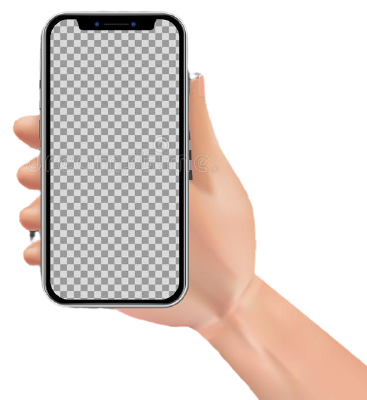
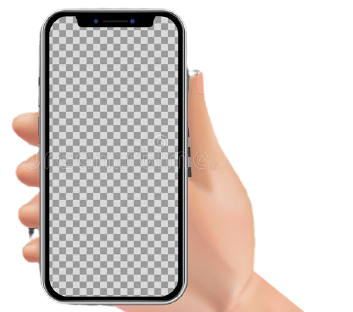
editing img

diff --git a/app/views/pages/index.php b/app/views/pages/index.php
@@ -171,24 +171,24 @@
 
   <div class="col-12 p-5 bg-light mt-4 text-left">
     <div class="pt-md-5 col-md-8">
-    <h3 class="displ">Integrations</h3>
-    <h3 class="display-4">Form Builder is more than just a  <br> great online tool</h3>
-    <p>Lorem ipsum dolor sit amet consectetur adipisicing elit. Eum natus dolores inventore nam deleniti quaerat quo aperiam id commodi suscipit, omnis sit! Rerum facere omnis necessitatibus porro nemo corrupti, quo dolore voluptas distinctio perferendis! Laborum libero sit animi labore laudantium iusto quam harum ullam est.</p>
+      <h3 class="displ">Integrations</h3>
+      <h3 class="display-4">Form Builder is more than just a <br> great online tool</h3>
+      <p>Lorem ipsum dolor sit amet consectetur adipisicing elit. Eum natus dolores inventore nam deleniti quaerat quo aperiam id commodi suscipit, omnis sit! Rerum facere omnis necessitatibus porro nemo corrupti, quo dolore voluptas distinctio perferendis! Laborum libero sit animi labore laudantium iusto quam harum ullam est.</p>
     </div>
   </div>
 
   <div class="bg-white col-12 p-5 text-left">
     <div class="row">
-    <div class="col-7">
+      <div class="col-7">
         <!-- <img src="<?= URLROOT ?>/img/272-2726659_phone-screen-png-transparent-background-transparent-android-phone.png" alt="" class="col-12"> -->
-        <img src="<?= URLROOT ?>/img/realistic-hand-holding-smartphone-empty-touchscreen-isolated-transparent-background-realistic-hand-holding-smartphone-141794987-removebg-preview.png" alt="" class="">
-        
+        <img src="<?= URLROOT ?>/img/realistic-hand-holding-smartphone-empty-touchscreen-isolated-transparent-background-realistic-hand-holding-smartphone-141794987-removebg-previewed.png" alt="" class="">
+
       </div>
       <div class="col-5">
         <h3 class="display-4">Android app coming soon</h3>
         <p>Lorem ipsum dolor sit amet consectetur adipisicing elit. Repellat assumenda libero vel temporibus deserunt perspiciatis? Mollitia voluptas pariatur maxime iusto cum beatae similique cumque ipsam, dolor repellat ipsa ratione repudiandae exercitationem sit rem esse? Necessitatibus porro eligendi soluta nihil dicta.</p>
       </div>
-      
+
     </div>
   </div>
 
